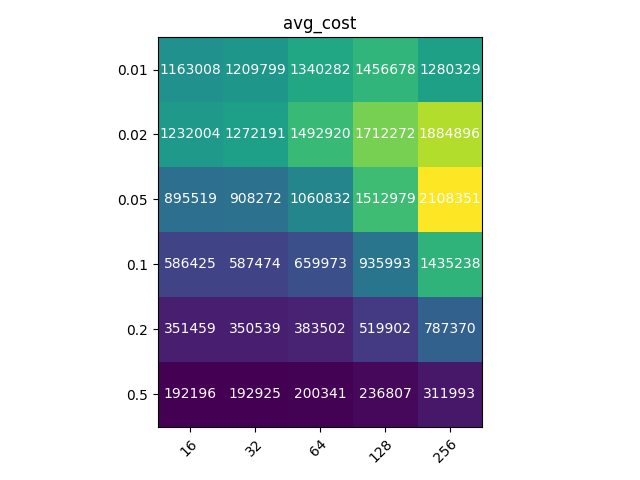
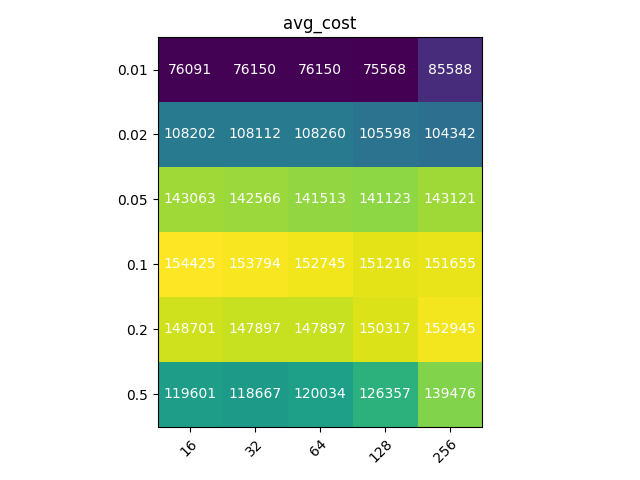
added lab_d

diff --git a/lab_d/src/page_allocation.rs b/lab_d/src/page_allocation.rs
@@ -4,50 +4,55 @@ const NUM_OF_PROCESSORS : usize = 64;
 const SEQ_LENGTH        : usize = 65536;
 
 #[derive(Clone, Copy, PartialEq)]
-enum ProcessorState {
-    Increase,
-    Decrease,
-    Hold
+enum State {
+    Increasing,
+    Decreasing,
+    Holding,
 }
 
 #[derive(Clone, Copy)]
 struct Processor {
-    count : u128,
-    state : ProcessorState
+    count    : usize,
+    state    : State
 }
 
 impl Processor {
     pub fn new_empty() -> Processor {
         Processor {
-            count : 0,
-            state : ProcessorState::Increase
+            count    : 0,
+            state    : State::Increasing
         }
     }
 
     pub fn new_full() -> Processor {
         Processor {
-            count : 0,
-            state : ProcessorState::Hold
+            count    : 0,
+            state    : State::Holding
         }
+    }
+
+    pub fn has_copy(&self) -> bool {
+        !matches!(self.state, State::Increasing)
     }
 }
 
+#[derive(Clone, Copy, PartialEq)]
 enum Request {
     Read,
     Write
 }
 
 fn init_processors() -> [Processor; NUM_OF_PROCESSORS] {
-    let mut processors: [Processor; 64] = [Processor::new_empty(); 64];
+    let mut processors = [Processor::new_empty(); NUM_OF_PROCESSORS];
     processors[0] = Processor::new_full();
     processors
 }
 
-fn rand_processor(rand: &Rng) -> usize {
+fn rand_processor(rand: &mut Rng) -> usize {
     rand.usize(0..NUM_OF_PROCESSORS)
 }
 
-fn rand_request(rand: &Rng, p: f64) -> Request {
+fn rand_request(rand: &mut Rng, p: f64) -> Request {
     if rand.f64() < p {
         Request::Write
     } else {
@@ -55,91 +60,72 @@ fn rand_request(rand: &Rng, p: f64) -> Request {
     }
 }
 
-pub fn page_allocation(d: u128, p: f64) -> (f64, f64) {
+fn is_waiting(num_of_copies: usize, processors: &[Processor]) -> bool {
+    (num_of_copies == 1) && processors.iter().any(|p| p.state == State::Holding)
+}
+
+pub fn page_allocation(d: usize, p: f64) -> (f64, f64) {
     let mut total_cost = 0;
     let mut curr_copies = 1;
     let mut max_copies = 1; 
-    let rand = Rng::new();
+    let mut rand = Rng::new();
     let mut processors = init_processors();
 
-    // 1. While c < D, if a read is initiated by p, or if a write is initiated by p, and
-    // Count is waiting, increase c by 1.
-    // 2. Replicate a copy of the file to p.
-    // 3. While c > 0, if a write is initiated by any other processor, decrease c by 1.
-    // 4. If p holds the last copy of the file, wait until it is replicated by some other
-    // processor.
-    // 5. Delete the copy held by p.
-    // 6. Repeat from step 1.
-
     for _ in 0..SEQ_LENGTH {
-        let pid = rand_processor(&rand);
-        let request = rand_request(&rand, p);
-        let state = processors[pid].state;
+        let pid = rand_processor(&mut rand);
+        let request = rand_request(&mut rand, p);
 
         match request {
-            Request::Read => {
-                match state {
-                    ProcessorState::Increase => {
-                    // reading cost
-                    total_cost += 1;
-                    processors[pid].count += 1;
-
-                    if processors[pid].count == d {
-                        // copying cost
-                        total_cost += d;
-                        
-                        curr_copies += 1;
-                        max_copies = max_copies.max(curr_copies);
-                        processors[pid].state = ProcessorState::Decrease;
-                    }
-                },
-                _ => ()
-            }
-        },
             Request::Write => {
-                for i in 0..64 {
-                    if processors[i].state == ProcessorState::Decrease && i != pid {
-                        // writing cost
-                        total_cost += curr_copies - 1;
-                                            
-                        processors[i].count -= 1;
-
-                        if processors[i].count == 0 {
-                            processors[i].state = ProcessorState::Hold;
-                        }
-                    }
+                total_cost += if processors[pid].has_copy() {
+                    curr_copies - 1
+                } else {
+                    curr_copies
                 }
+            },
+            Request::Read => {
+                if !processors[pid].has_copy() {
+                    total_cost += 1;
+                }
+            },
+        }
 
-                match state {
-                    ProcessorState::Increase => {
-                        // writing cost
-                        total_cost += curr_copies;
-
-                        if curr_copies == 1 {
-                            processors[pid].count += 1;
-                        }
-                        
-                        if processors[pid].count == d {
-                            // copying cost
+        for idx in 0..NUM_OF_PROCESSORS {
+            match processors[idx].state {
+                // 1. While c < D, 
+                // if a read is initiated by p, 
+                // or if a write is initiated by p,
+                // and Count is waiting, increase c by 1.
+                State::Increasing => {
+                    if idx == pid && (request == Request::Read || is_waiting(curr_copies, &processors)) {
+                        processors[idx].count += 1;
+                        if processors[idx].count == d {
+                            // 2. Replicate a copy of the file to p.
                             total_cost += d;
                             curr_copies += 1;
                             max_copies = max_copies.max(curr_copies);
-                            processors[pid].state = ProcessorState::Decrease;
+                            processors[idx].state = State::Decreasing;
                         }
-                    },
-                    _ => {
-                        // writing cost
-                        total_cost += curr_copies - 1;
                     }
-                }
-            }
-        }
-
-        if curr_copies > 1 {    
-            for processor in processors.iter_mut() {
-                if processor.state == ProcessorState::Hold {
-                    curr_copies -= 1;
-                    processor.state = ProcessorState::Increase;
+                },
+                // 3. While c > 0, 
+                // if a write is initiated by any other processor, decrease c by 1.
+                State::Decreasing => {
+                    if idx != pid && request == Request::Write {
+                        processors[idx].count -= 1;
+                        if processors[idx].count == 0 {
+                            processors[idx].state = State::Holding;
+                        }
+                    }
+                },
+                // 4. If p holds the last copy of the file, 
+                // wait until it is replicated by some other processors[idx].
+                State::Holding => {
+                    if curr_copies > 1 {
+                        // 5. Delete the copy held by p.
+                        curr_copies -= 1;
+                        processors[idx].state = State::Increasing;
+                    }
                 }
             }
         }

diff --git a/lab_d/plots.py b/lab_d/plots.py
@@ -1,6 +1,39 @@
 import numpy as np
 import matplotlib.pyplot as plt
 
+ds = [ 16, 32, 64, 128, 256 ]
+ps = [ 0.01, 0.02, 0.05, 0.1, 0.2, 0.5 ]
+
+def plot_linear():
+    cost = np.zeros((len(ds),len(ps)))
+    copies = np.zeros((len(ds),len(ps)))
+
+    for i in range(len(ds)):
+        for j in range(len(ps)):             
+            filename = f"data/d_{ds[i]}_p_{ps[j]}_allocation.txt"
+            file = open(filename, 'r')
+            line = file.readline().split(",")
+            cost[i][j]   = int(float(line[0]))
+            copies[i][j] = float(line[1])
+  
+    plt.figure().set_figwidth(10)
+    for i,d in enumerate(ds):
+        plt.plot(ps, cost[i][:], label=d, marker='o')
+    plt.xlabel('p')
+    plt.ylabel('avg_cost')
+    plt.legend()
+    plt.savefig("data/cost_ds.png", dpi=300)
+    plt.close()
+
+    plt.figure().set_figwidth(10)
+    for i,d in enumerate(ds):
+        plt.plot(ps, copies[i][:], label=d, marker='o')
+    plt.xlabel('p')
+    plt.ylabel('max_copies')
+    plt.legend()
+    plt.savefig("data/copies_ds.png", dpi=300)
+    plt.close()
+
 def read_floats(d, p):
     filename = f"data/d_{d}_p_{p}_allocation.txt"
     file = open(filename, 'r')
@@ -8,9 +41,6 @@ def read_floats(d, p):
     return [ float (x) for x in line.split(",") ]
 
 def plot_heatmap(parameter, idx):
-    ds = [ 16, 32, 64, 128, 256 ]
-    ps = [ 0.01, 0.02, 0.05, 0.1, 0.2, 0.5 ]
-
     data = [ [ (read_floats(d, p))[idx] for d in ds ] for p in ps ]
     data = [ [int(value) for value in row] for row in data ] if parameter == "avg_cost" else data
     data = np.array(data)
@@ -43,3 +73,4 @@ def plot_heatmap(parameter, idx):
 if __name__ == "__main__":
     for (parameter, idx) in [ ("avg_cost", 0), ("avg_copies", 1) ]:
         plot_heatmap(parameter, idx)
+    plot_linear()
